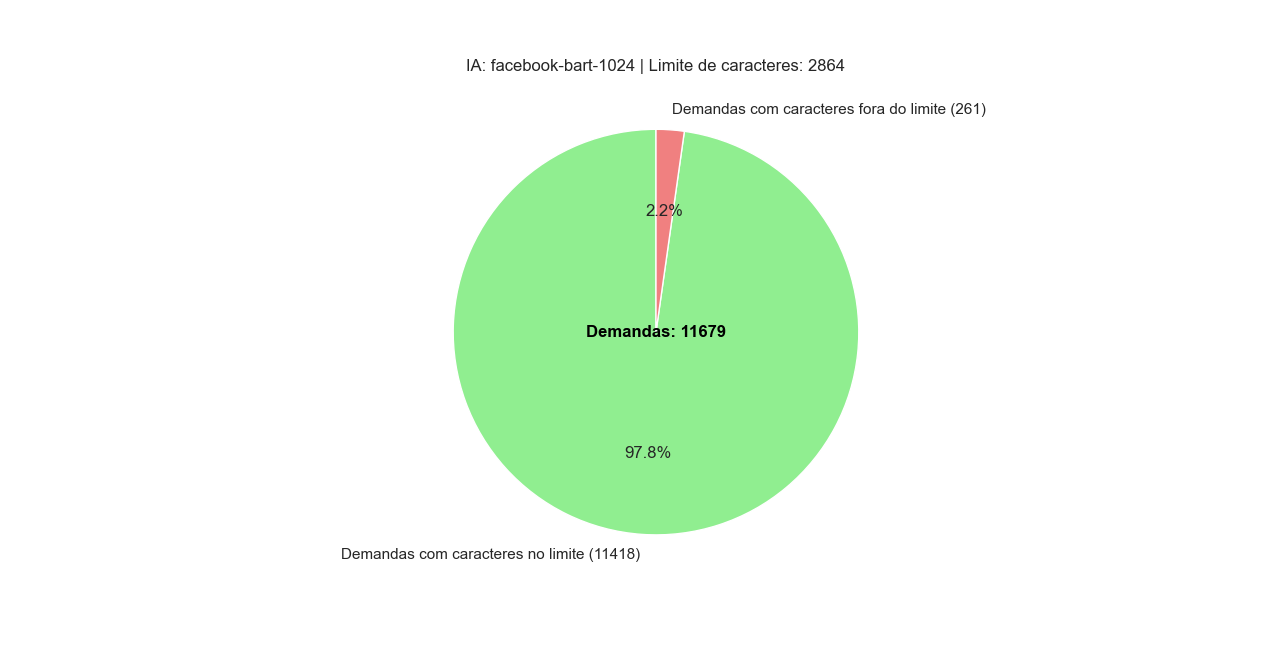
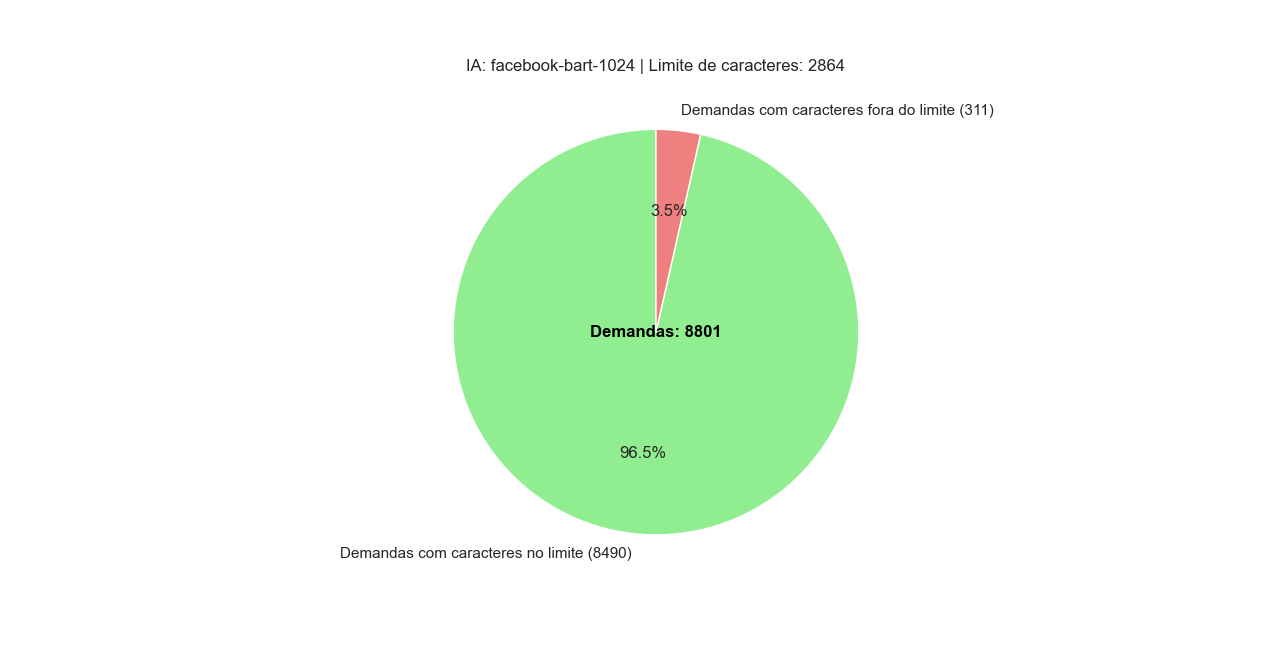
analisando dataset email sep

Changed region(s): [[0.4375, 0.152, 0.7812, 0.5167], [0.25, 0.8207, 0.5, 0.8511], [0.4688, 0.6687, 0.5312, 0.6991]]

diff --git a/analise.py b/analise.py
@@ -9,14 +9,14 @@ def obterMaxCaracteresFromModel() -> int:
     return len(AiModel.tokenizer.decode(tokens["input_ids"][0], skip_special_tokens=True)) - safetyValue
 
 def sumarizeModel(indexModel: int):
-    df = pd.read_json("datasets/database.json")
+    df = pd.read_json("datasets/database-email-sep.json")
     
     AiModel.init(modelIndex=indexModel)
     AiModelService.init(testing=True)
     
     maxLen = obterMaxCaracteresFromModel()
     
-    df['length'] = df['text'].apply(len)
+    df['length'] = df['DetalhesDaDemanda'].apply(len)
     
     onLimit = len(df[df['length'] <= maxLen])
     outLimit = len(df[df['length'] > maxLen])
@@ -34,8 +34,13 @@ def sumarizeModel(indexModel: int):
 
 
 def analiseModels():
-    AiModel.modelOptions.sort(key=lambda x: x["tokens"])
-    sumariesModel = [sumarizeModel(i) for i in range(len(AiModel.modelOptions))]
+    modelOptions = [
+        {"path": "KassioMaminfo/autotrain-rac-11679-cardiffnlp-roberta-base", "name": "rac-roberta-11679-512", "tokens": 512, "task": "sentiment-analysis"},
+        {"path": "facebook/bart-large-mnli", "name": "facebook-bart-1024", "tokens": 1024, "task": "sentiment-analysis"}
+    ]
+    
+    modelOptions.sort(key=lambda x: x["tokens"])
+    sumariesModel = [sumarizeModel(i) for i in range(len(modelOptions))]
     
     for sumary in sumariesModel:
         valor_total = sumary['promptsTotais']
@@ -61,8 +66,8 @@ def count_characters(text):
 
 
 def sumarizeDataset():
-    df = pd.read_json("datasets/database.json")
-    df['text_length'] = df['text'].apply(count_characters)
+    df = pd.read_json("datasets/database-email-sep.json")
+    df['text_length'] = df['DetalhesDaDemanda'].apply(count_characters)
     
     classSize = 1000
     